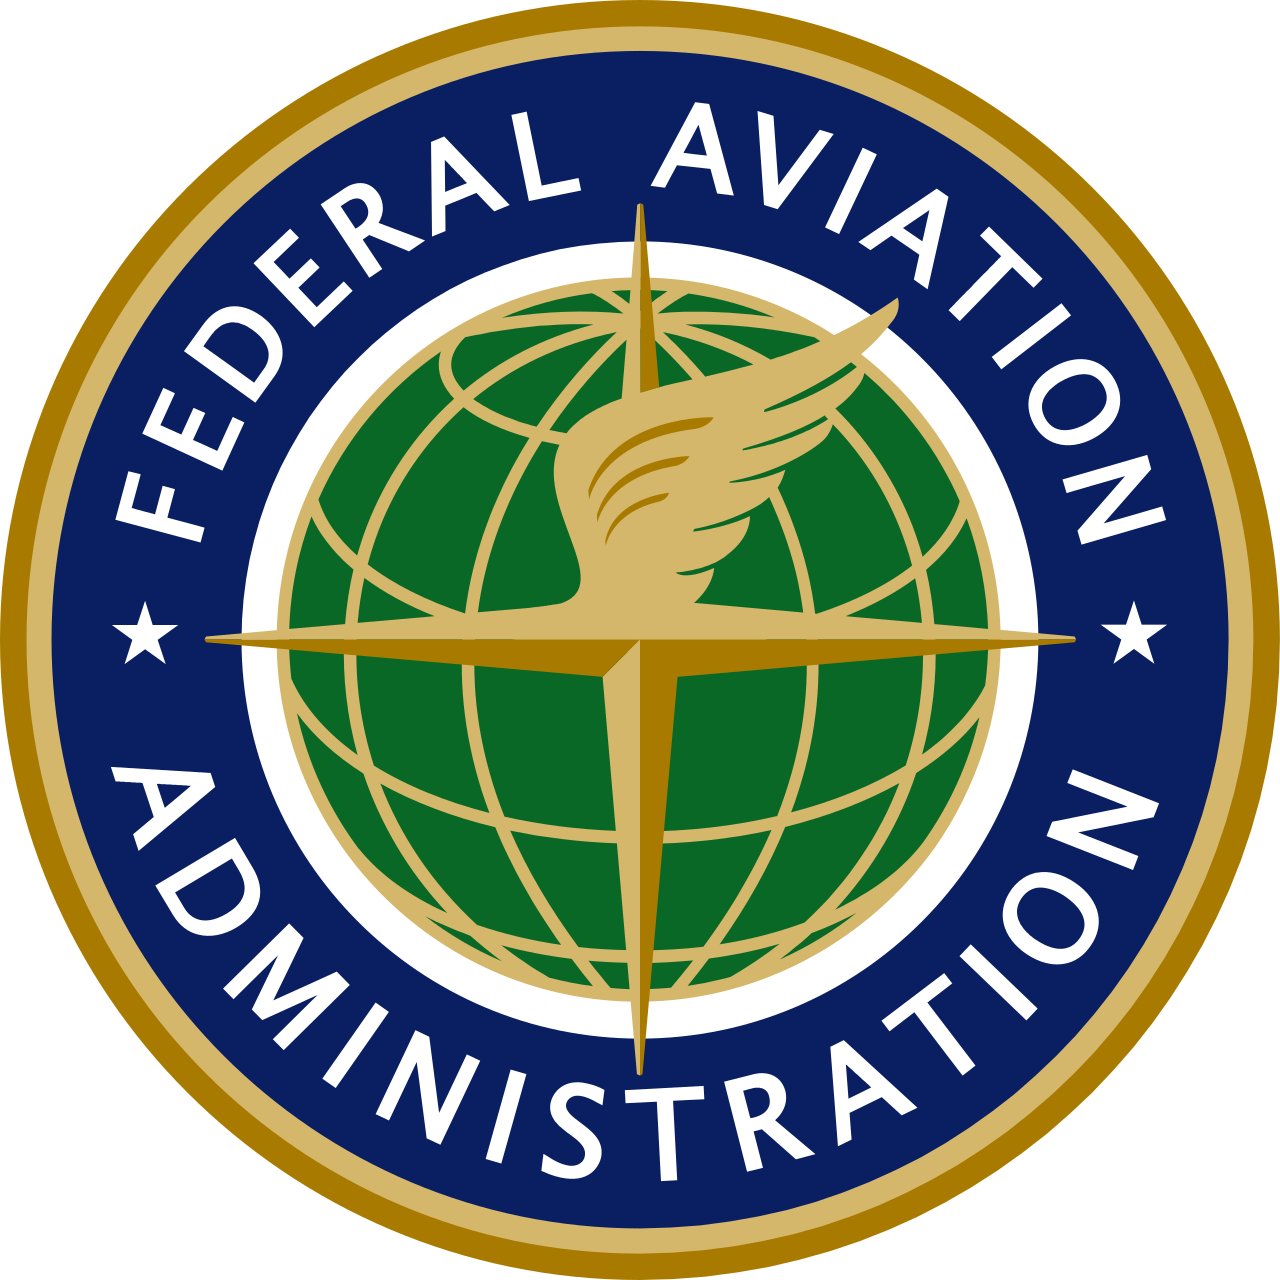
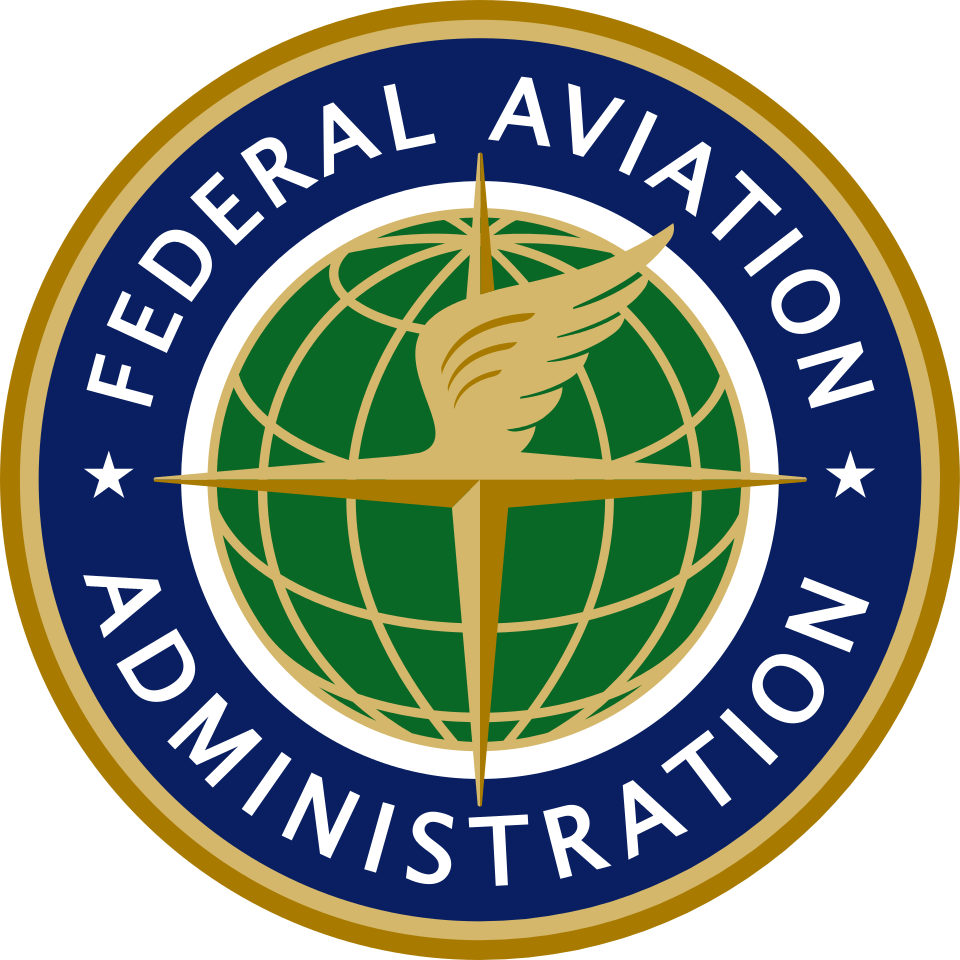
Added images for certifications

diff --git a/index.html b/index.html
@@ -78,23 +78,9 @@
       <span class="section-label">About Me</span>
       <div class="about-grid reveal">
         <div class="about-text">
-          <h2 class="section-title">Engineer at the intersection of hardware &amp; software</h2>
-          <p>Computer Engineering junior at Inter American University of Puerto Rico Bayamón, with hands-on experience in embedded systems, PCB design, and robotics — plus a solid secondary foundation in full-stack web development.</p>
+          <h2 class="section-title">Engineer autodidact in hardware &amp; software</h2>
+          <p>Computer Engineering junior, with hands-on experience in embedded systems, PCB design, and robotics — plus a solid secondary foundation in full-stack web development.</p>
           <p>Founder of Dan Tutoring, Programming Team Leader for NASA Lunabotics 2026, and FAA-certified remote pilot. I actively seek roles where I can contribute at both the hardware and software layers.</p>
-          <div class="skill-tags">
-            <span>/ Embedded C/C++</span>
-            <span>/ Linux (Bash)</span>
-            <span>/ Git</span>
-            <span>/ Microcontrollers (ESP32 / Arduino)</span>
-            <span>/ PCB Design (KiCad &amp; EasyEDA)</span>
-            <span>/ ROS 2 Jazzy</span>
-            <span>/ OpenCV / Python</span>
-            <span>/ Raspberry Pi</span>
-            <span>/ LiDAR</span>
-            <span>/ SPI / I2C / UART</span>
-            <span>/ Simulink</span>
-            <span>/ HTML / CSS / JS</span>
-          </div>
         </div>
         <div class="about-photo-wrap">
           <div class="photo-placeholder tech-frame">
@@ -486,7 +472,7 @@
             <span class="acc-tag highlight">FAA</span>
           </div>
           <div class="cert-icon">
-            <svg width="24" height="24" viewBox="0 0 24 24" fill="none" stroke="currentColor" stroke-width="1.5"><path d="M12 2L2 7l10 5 10-5-10-5z"/><path d="M2 17l10 5 10-5"/><path d="M2 12l10 5 10-5"/></svg>
+            <img src="Pictures/FAA.png" alt="FAA Logo" style="width:28px;height:28px;">
           </div>
           <h3 class="cert-title">Remote Pilot Certificate</h3>
           <p class="cert-org">Federal Aviation Administration (FAA)</p>
@@ -503,7 +489,7 @@
             <span class="acc-tag wip">In Progress</span>
           </div>
           <div class="cert-icon">
-            <svg width="24" height="24" viewBox="0 0 24 24" fill="none" stroke="currentColor" stroke-width="1.5"><rect x="2" y="3" width="20" height="14" rx="2"/><path d="M8 21h8M12 17v4"/></svg>
+            <img src="Pictures/Cisco.png" alt="Cisco Logo" style="width:28px;height:28px;">
           </div>
           <h3 class="cert-title">Cisco Certified Support Technician (CCST)</h3>
           <p class="cert-org">Cisco</p>
@@ -520,7 +506,7 @@
             <span class="acc-tag">Industry</span>
           </div>
           <div class="cert-icon">
-            <svg width="24" height="24" viewBox="0 0 24 24" fill="none" stroke="currentColor" stroke-width="1.5"><circle cx="12" cy="8" r="6"/><path d="M8.21 13.89L7 23l5-3 5 3-1.21-9.12"/></svg>
+           <img src="Pictures/BSC_logo.png" alt="BSC Logo" style="width:28px;height:28px;">
           </div>
           <h3 class="cert-title">Advancing Your Career</h3>
           <p class="cert-org">Boston Scientific Corporation (BSC)</p>
@@ -530,9 +516,8 @@
             
           -->
           <div class="cert-img-placeholder">
-            <svg width="28" height="28" viewBox="0 0 24 24" fill="none" stroke="currentColor" stroke-width="1.5"><rect x="3" y="3" width="18" height="18" rx="2"/><path d="M3 9h18M9 21V9"/></svg>
-            <img src="Pictures/BSC.png" alt="BSC Certificate" style="width:100%;border-radius:2px;margin-top:0.75rem;">v
-          </div>
+           
+              <img src="Pictures/BSC.png" alt="BSC Certificate" style="width:100%;height:auto;">
         </div>
 
       </div>
@@ -553,7 +538,7 @@
         <div class="award-left">
           <span class="award-id">[AWD-001]</span>
           <div class="award-icon">
-            <svg width="28" height="28" viewBox="0 0 24 24" fill="none" stroke="currentColor" stroke-width="1.5"><circle cx="12" cy="8" r="6"/><path d="M8.21 13.89L7 23l5-3 5 3-1.21-9.12"/></svg>
+           <img src="Pictures/CIAPR_logo.png" alt="CIAPR Logo" style="width:28px;height:28px;">
           </div>
         </div>
         <div class="award-body">
@@ -615,17 +600,7 @@
           <p>Student chapter of CIAPR — Colegio de Ingenieros y Agrimensores de Puerto Rico</p>
         </div>
 
-        <div class="vol-card tech-frame">
-          <div class="vol-img-wrap">
-            <!--  PLACEHOLDER: src="Pictures/beach-cleanup.jpg" -->
-            <div class="vol-img-placeholder"><span>🌊</span></div>
-            <div class="vol-card-overlay"><span>[COMMUNITY_SERVICE]</span></div>
-          </div>
-          <h3>Community Service</h3>
-          <p>Beach cleanups &amp; educational talks with elderly communities</p>
-        </div>
-
-      </div>
+        
     </div>
   </section>
 
